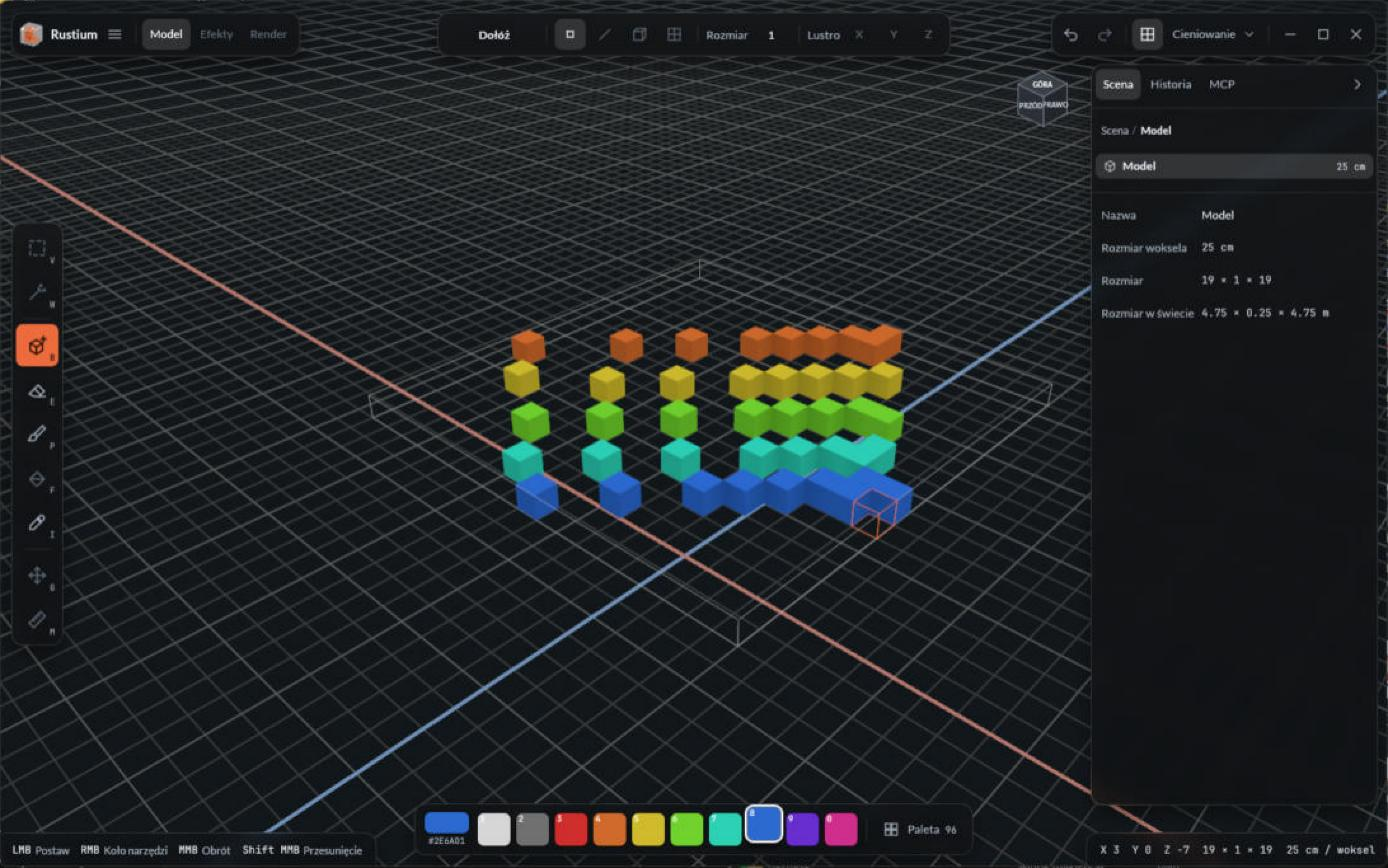
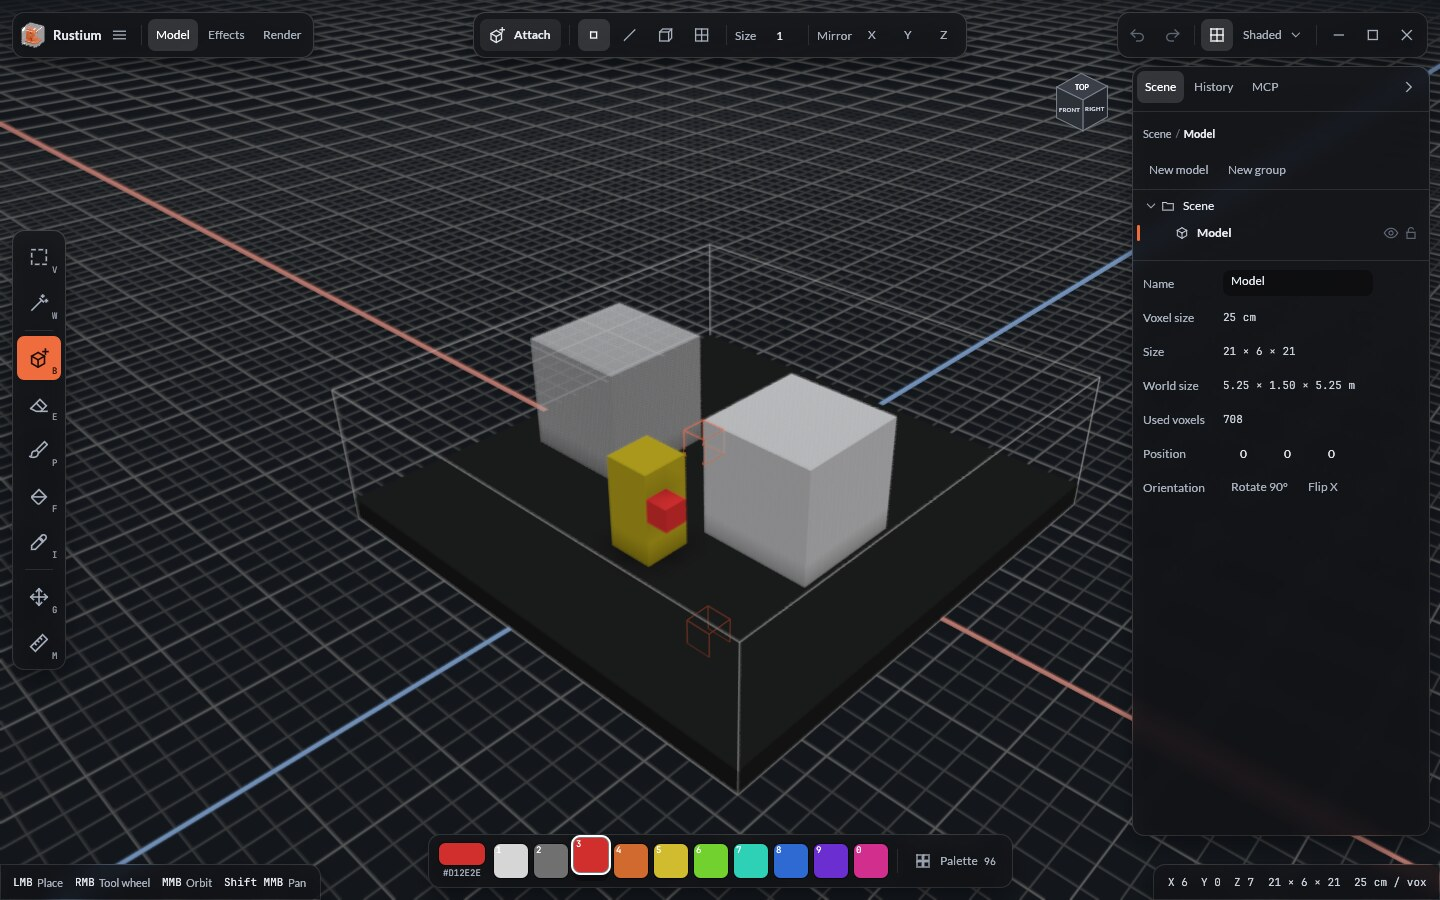
docs: refresh README screenshots and add Effects and Render views

diff --git a/README.md b/README.md
@@ -13,7 +13,7 @@
 ![Platform](https://img.shields.io/badge/platform-Windows_·_Linux_·_macOS-1A1D22)
 ![Status](https://img.shields.io/badge/status-M1–M7_·_preview-A6AFBC)
 
-<img src="docs/images/editor.jpg" alt="Rustium editor: colored voxel rows on a ground grid, floating glass tool panels around the viewport" width="100%">
+<img src="docs/images/editor.jpg" alt="Rustium editor: a voxel scene with glass and colored blocks on a ground grid, floating glass tool panels around the viewport" width="100%">
 
 </div>
 
@@ -34,16 +34,24 @@ Most voxel editors make you choose: a polished UI or a renderer you can trust an
 
 <table>
   <tr>
-    <td width="50%"><img src="docs/images/start-screen.jpg" alt="Start screen with the Rustium logo, New model and Open file buttons"></td>
-    <td width="50%"><img src="docs/images/palette-history.jpg" alt="Palette popover with 96 colors above the hotbar, History tab listing edits"></td>
+    <td width="50%"><img src="docs/images/effects.jpg" alt="Effects mode: the Roof slate Material as a node graph with Voxel color, Noise, Mix, Remap, Voxel bevel and Surface nodes"></td>
+    <td width="50%"><img src="docs/images/render.jpg" alt="Render mode: path-traced scene with a glass box, a haze box and a yellow pillar on a dark slab"></td>
+  </tr>
+  <tr>
+    <td align="center"><sub>Effects mode: Materials are node graphs compiled to WGSL</sub></td>
+    <td align="center"><sub>Render mode: progressive path tracer with glass and haze</sub></td>
+  </tr>
+  <tr>
+    <td width="50%"><img src="docs/images/start-screen.jpg" alt="Start screen with the Rustium logo among glass voxels, New model and Open file buttons"></td>
+    <td width="50%"><img src="docs/images/palette.jpg" alt="Palette popover with 96 colors above the hotbar"></td>
   </tr>
   <tr>
     <td align="center"><sub>Start screen</sub></td>
-    <td align="center"><sub>96-color palette and the History tab: click any step to jump back</sub></td>
+    <td align="center"><sub>96-color palette: click a color to put it in the active slot</sub></td>
   </tr>
 </table>
 
-<sub>Screenshots show the Polish interface; switch languages in Settings → General.</sub>
+<sub>The interface is also available in Polish; switch languages in Settings → General.</sub>
 
 ## Features
 
